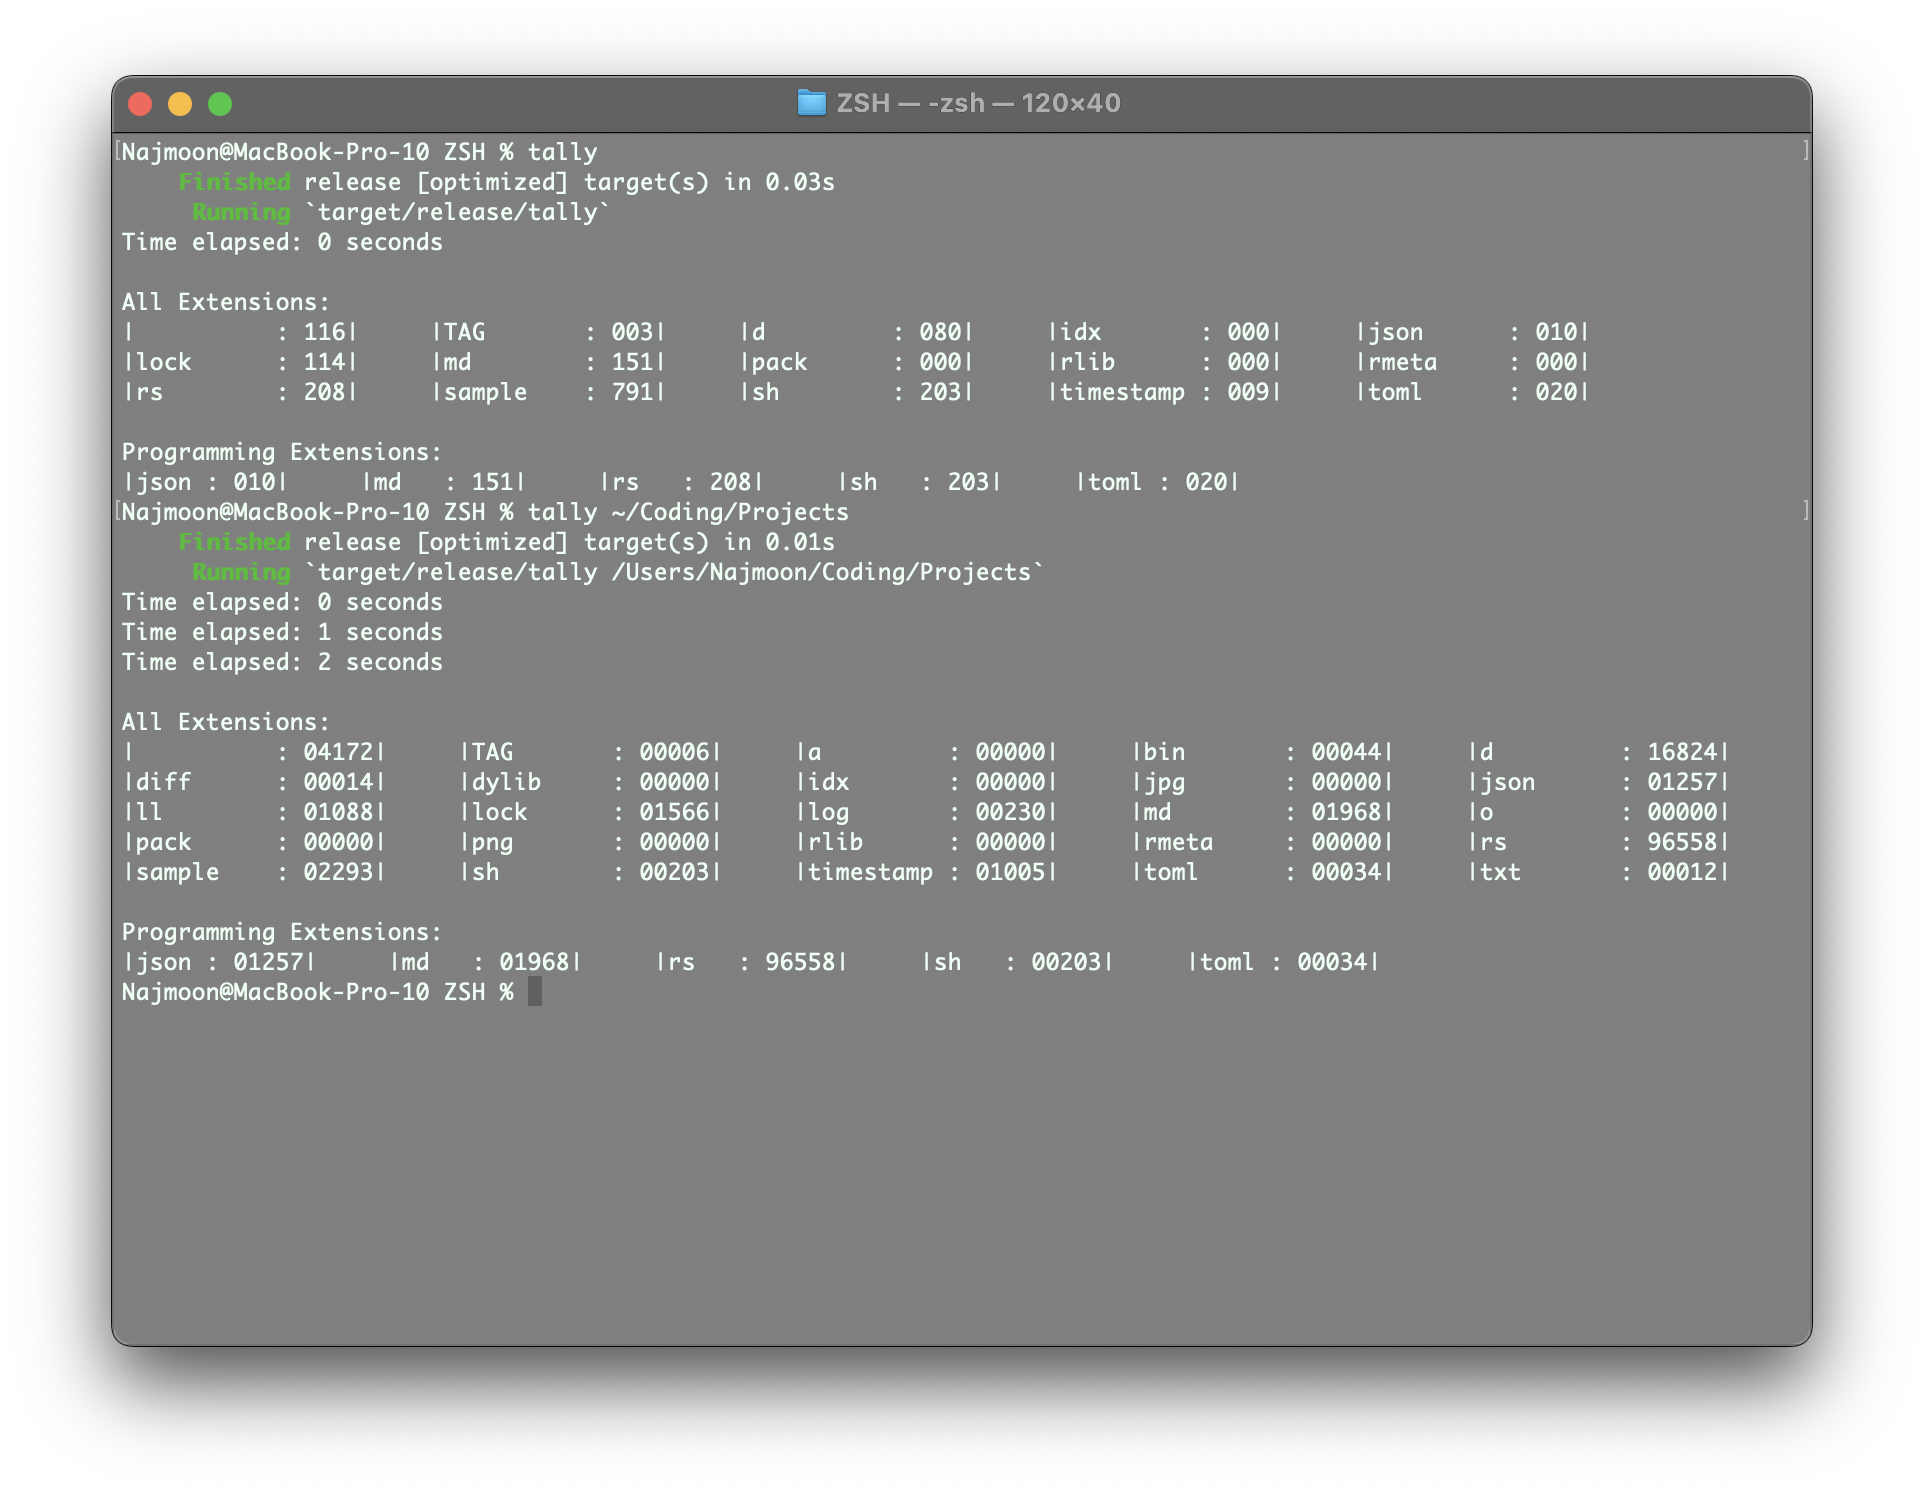
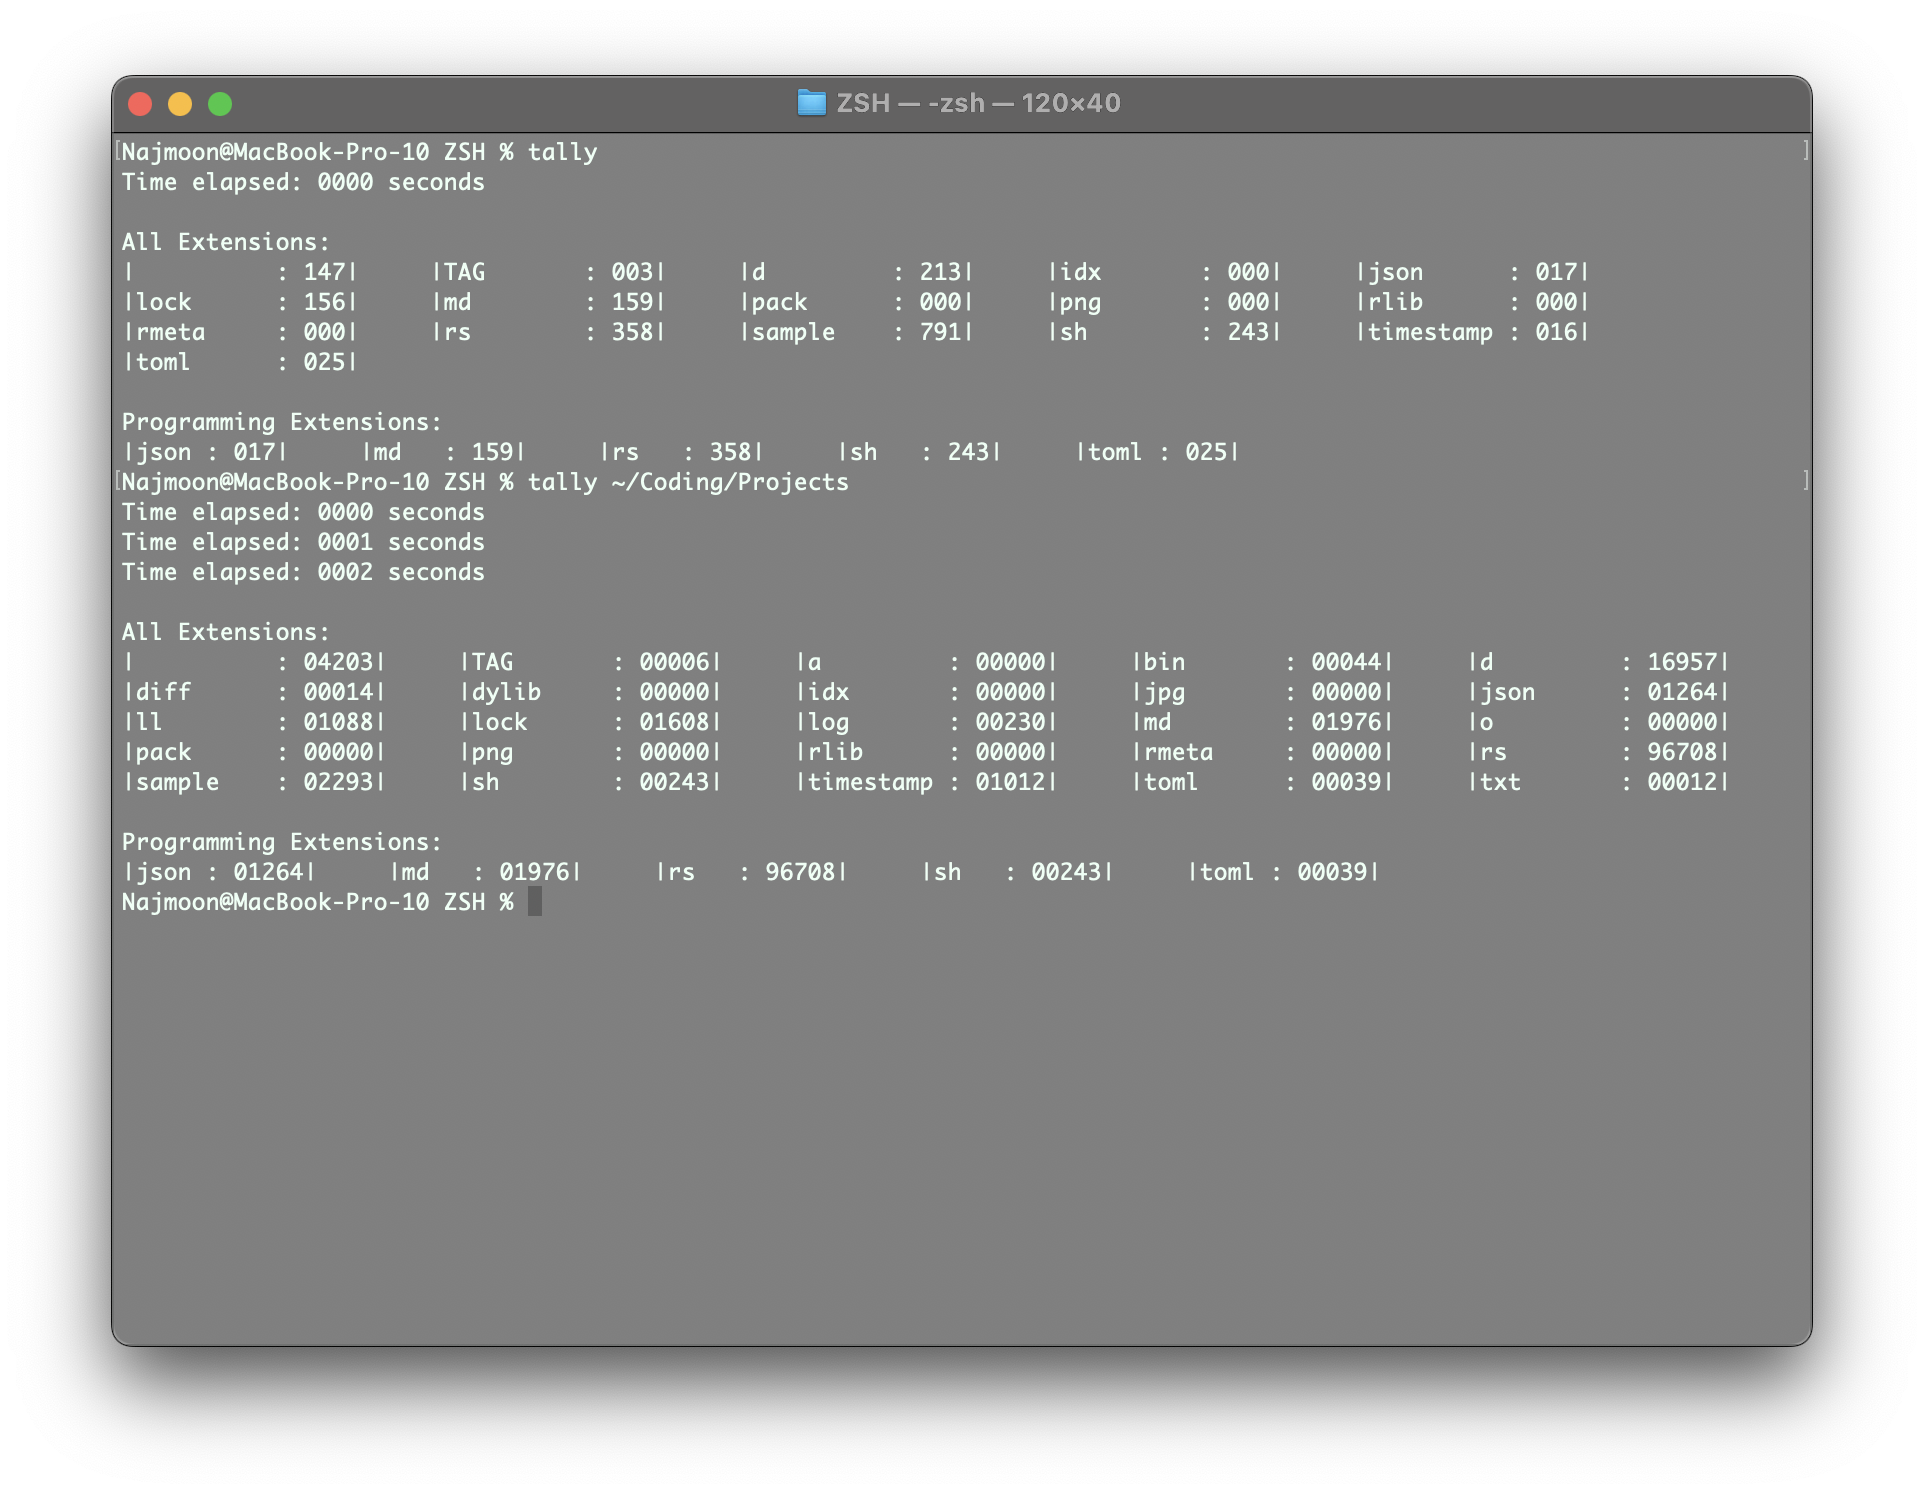
finish makefile + update intsrc usage

diff --git a/crates/tally/src/main.rs b/crates/tally/src/main.rs
@@ -74,7 +74,8 @@ fn print_lines() {
         // Checking to see if it is a file
         if entry.file_type().is_file() {
             // Reading file and getting extension and lines
-            let file: String = fs::read_to_string(entry.path()).unwrap_or_else(|_| String::from(""));
+            let file: String =
+                fs::read_to_string(entry.path()).unwrap_or_else(|_| String::from(""));
             let extension: String = entry
                 .path()
                 .extension()
@@ -96,7 +97,7 @@ fn print_lines() {
         // Printing time elapsed
         let curr: u64 = start.elapsed().as_secs();
         if curr > prev {
-            println!("Time elapsed: {} seconds", format!("{:0w$}", prev, w = PAD));
+            println!("Time elapsed: {} seconds", format!("{:0w$}", curr, w = PAD));
             prev = curr;
         }
     }
@@ -122,7 +123,7 @@ fn print_lines() {
         // Printing time elapsed
         let curr: u64 = start.elapsed().as_secs();
         if curr > prev {
-            println!("Time elapsed: {} seconds", format!("{:0w$}", prev, w = PAD));
+            println!("Time elapsed: {} seconds", format!("{:0w$}", curr, w = PAD));
             prev = curr;
         }
     }
@@ -169,7 +170,7 @@ fn print_lines() {
         // Printing time elapsed
         let curr: u64 = start.elapsed().as_secs();
         if curr > prev {
-            println!("Time elapsed: {} seconds", format!("{:0w$}", prev, w = PAD));
+            println!("Time elapsed: {} seconds", format!("{:0w$}", curr, w = PAD));
             prev = curr;
         }
     }
